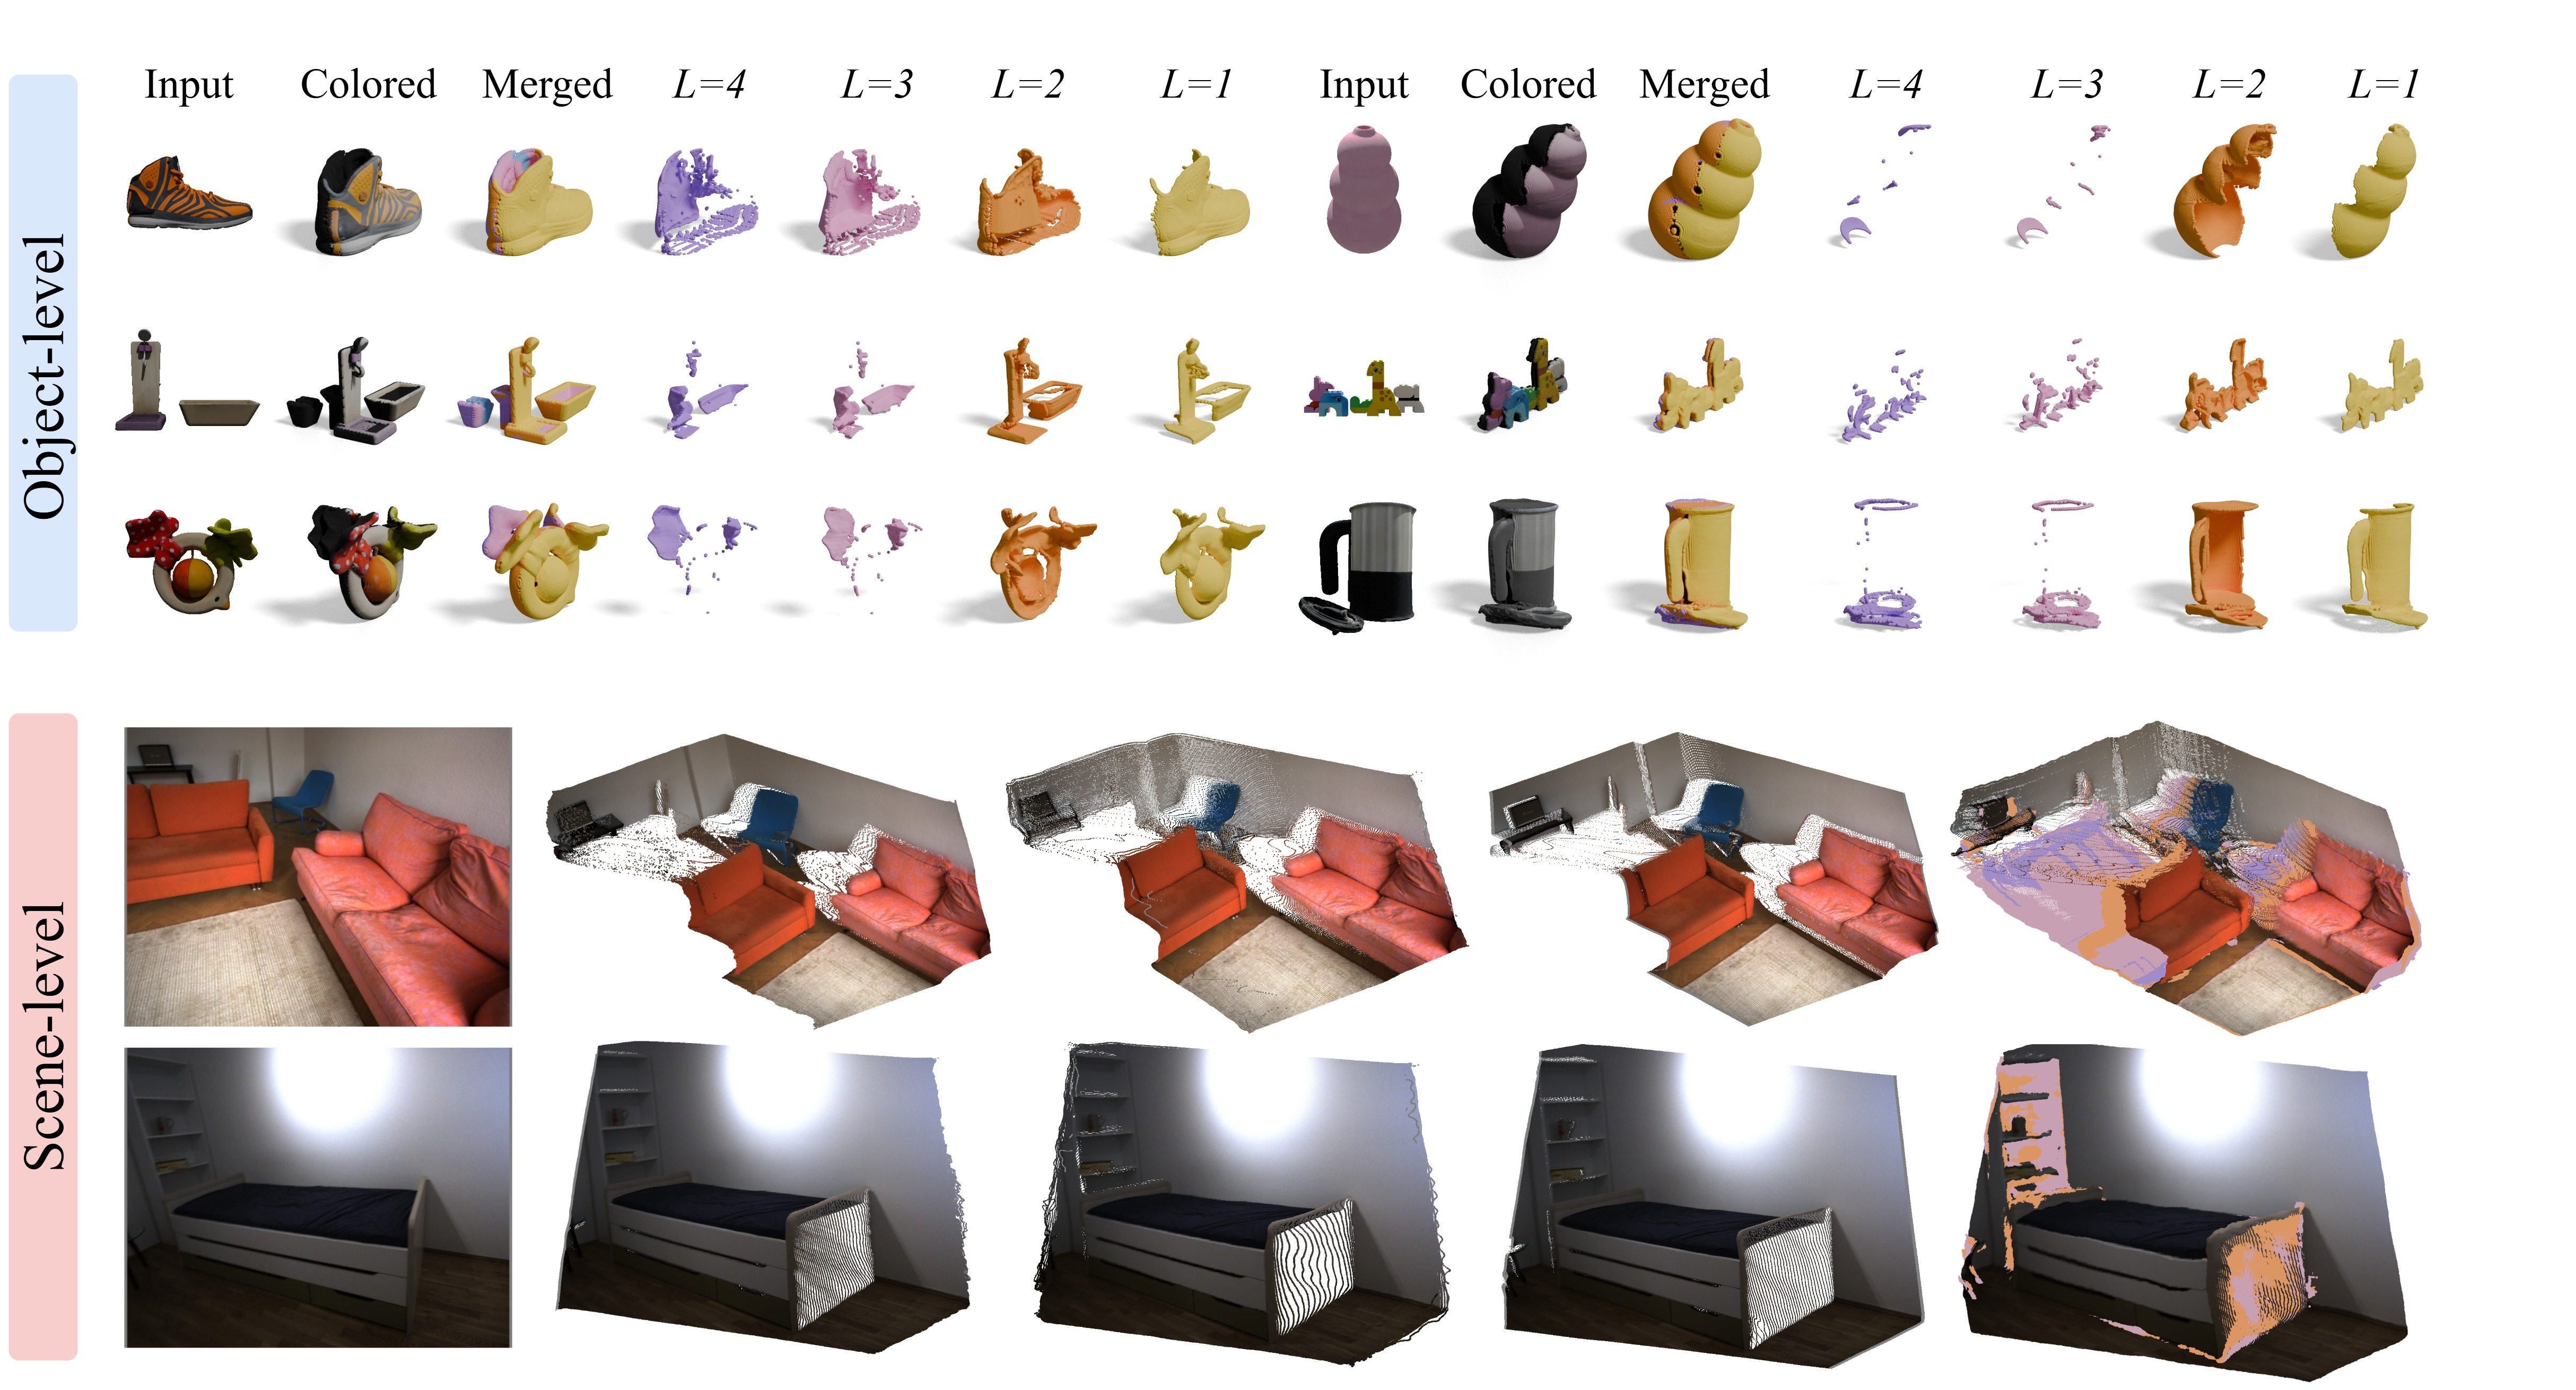
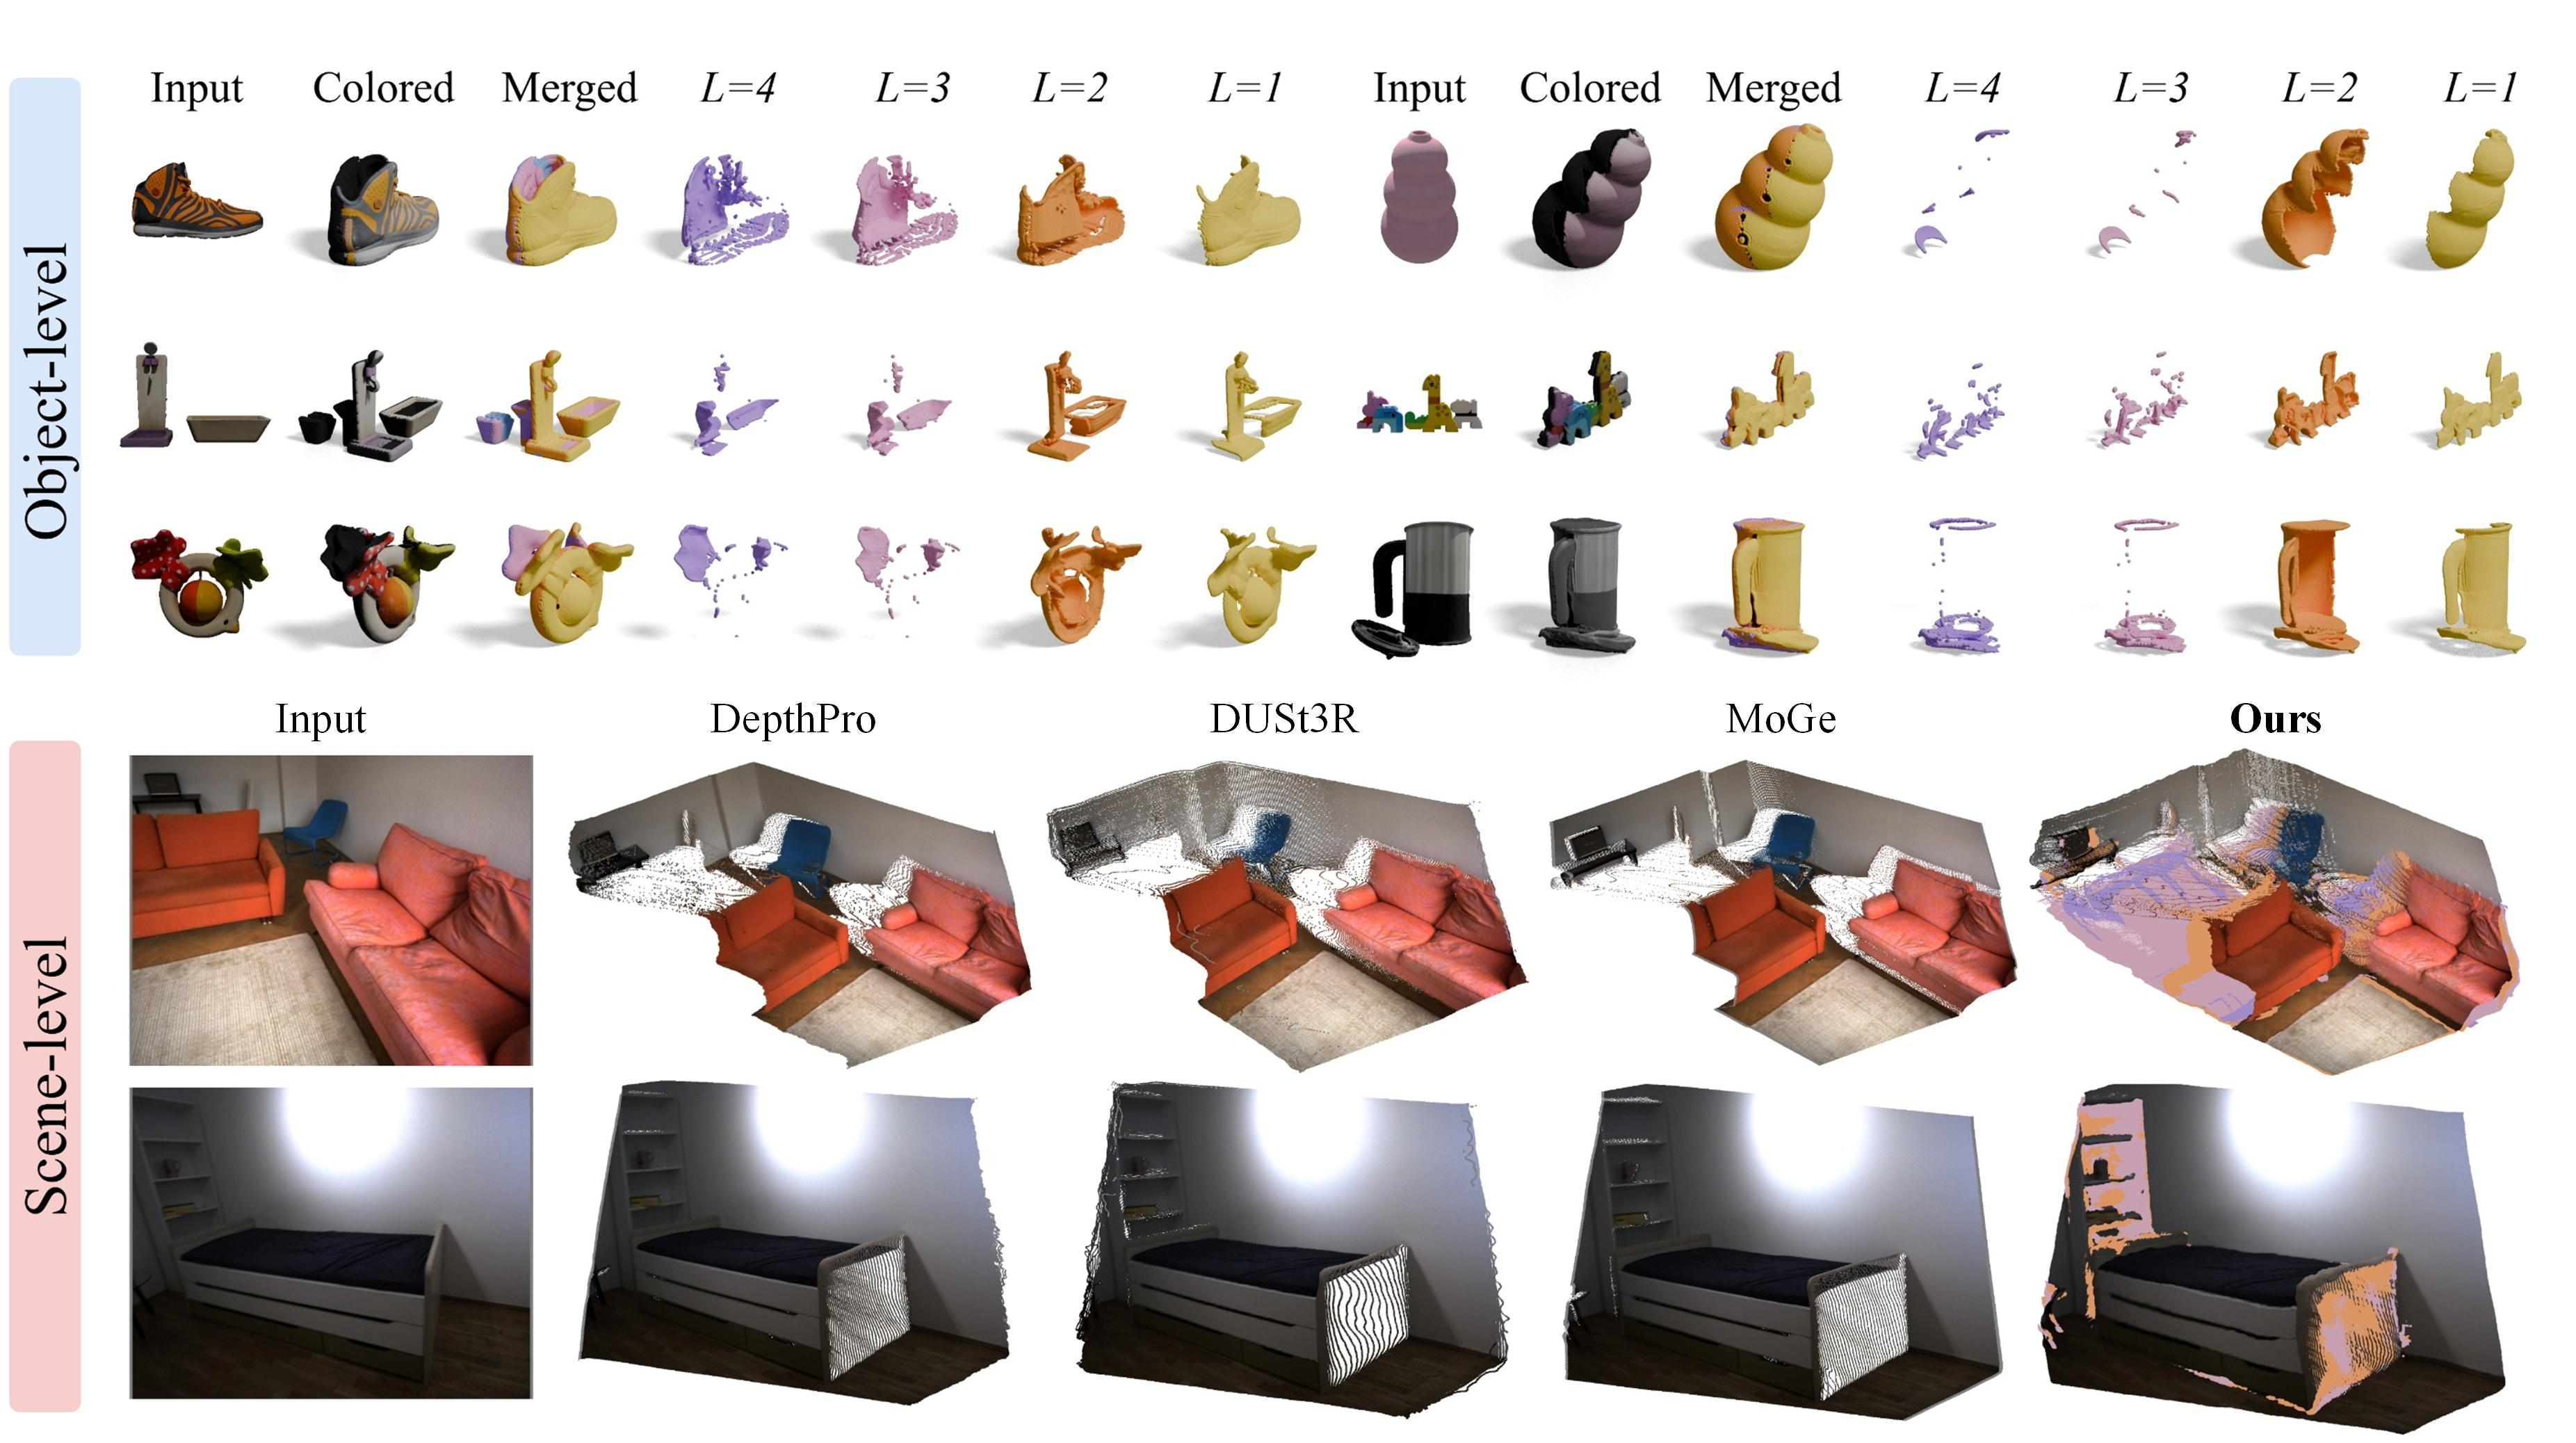
update readme

diff --git a/README.md b/README.md
@@ -23,8 +23,8 @@
 
 ### 📋 TODO List
 - [x] Inference code & Gradio demo
-- [ ] Object- and Scene-level evaluation data & code (ETA: Early May)
-- [ ] Training data & code (ETA: Early May)
+- [ ] Object- and Scene-level evaluation data & code (ETA: Mid May)
+- [ ] Training data & code (ETA: Mid May)
 
 
 